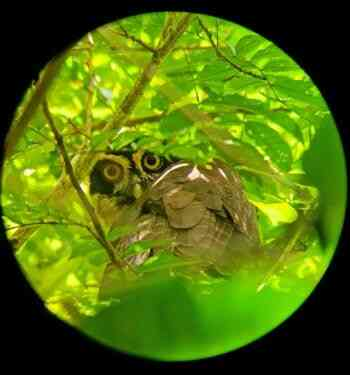
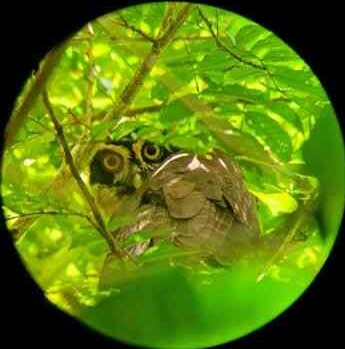
Cambios img

diff --git a/resources/views/home.blade.php b/resources/views/home.blade.php
@@ -158,11 +158,11 @@
                         <!-- Card -->
                         <div class="card">
                             <div class="card-image">
-                                <img class="img-fluid" src="images/ranas/rana-ojos-rojos.jpeg" alt="tour nocturno Sloths Territory La Fortuna" title="rana de ojos rojos en tour nocturno La Fortuna" width="350px" height="258px">
+                                <img class="img-fluid" src="images/ranas/tour-nocturno.jpeg" alt="tour nocturno Sloths Territory La Fortuna" title="rana de ojos rojos en tour nocturno La Fortuna" width="350px" height="258px">
                             </div>
                             <div class="card-body">
                                 <h3 class="card-title">Tour nocturno</h3>
-                                <p>Pequeña introducción</p>
+                                <p>Una experiencia única</p>
                                 <ul class="list-unstyled li-space-lg">
                                     <li class="media">
                                         <i class="fas fa-square"></i>
@@ -184,7 +184,7 @@
                         <!-- Card -->
                         <div class="card">
                             <div class="card-image">
-                                <img class="img-fluid" src="images/aves/lechuzon-fortuna-costa-rica-.jpeg" alt="magníficas aves en la Fortuna" title="lechuzón en Sloths Territory" width="350px" height="258px">
+                                <img class="img-fluid" src="images/aves/halcon-blanco-gavilan.jpeg" alt="magníficas aves en la Fortuna" title="lechuzón en Sloths Territory" width="350px" height="258px">
                             </div>
                             <div class="card-body">
                                 <h3 class="card-title">Tour de aves</h3>
